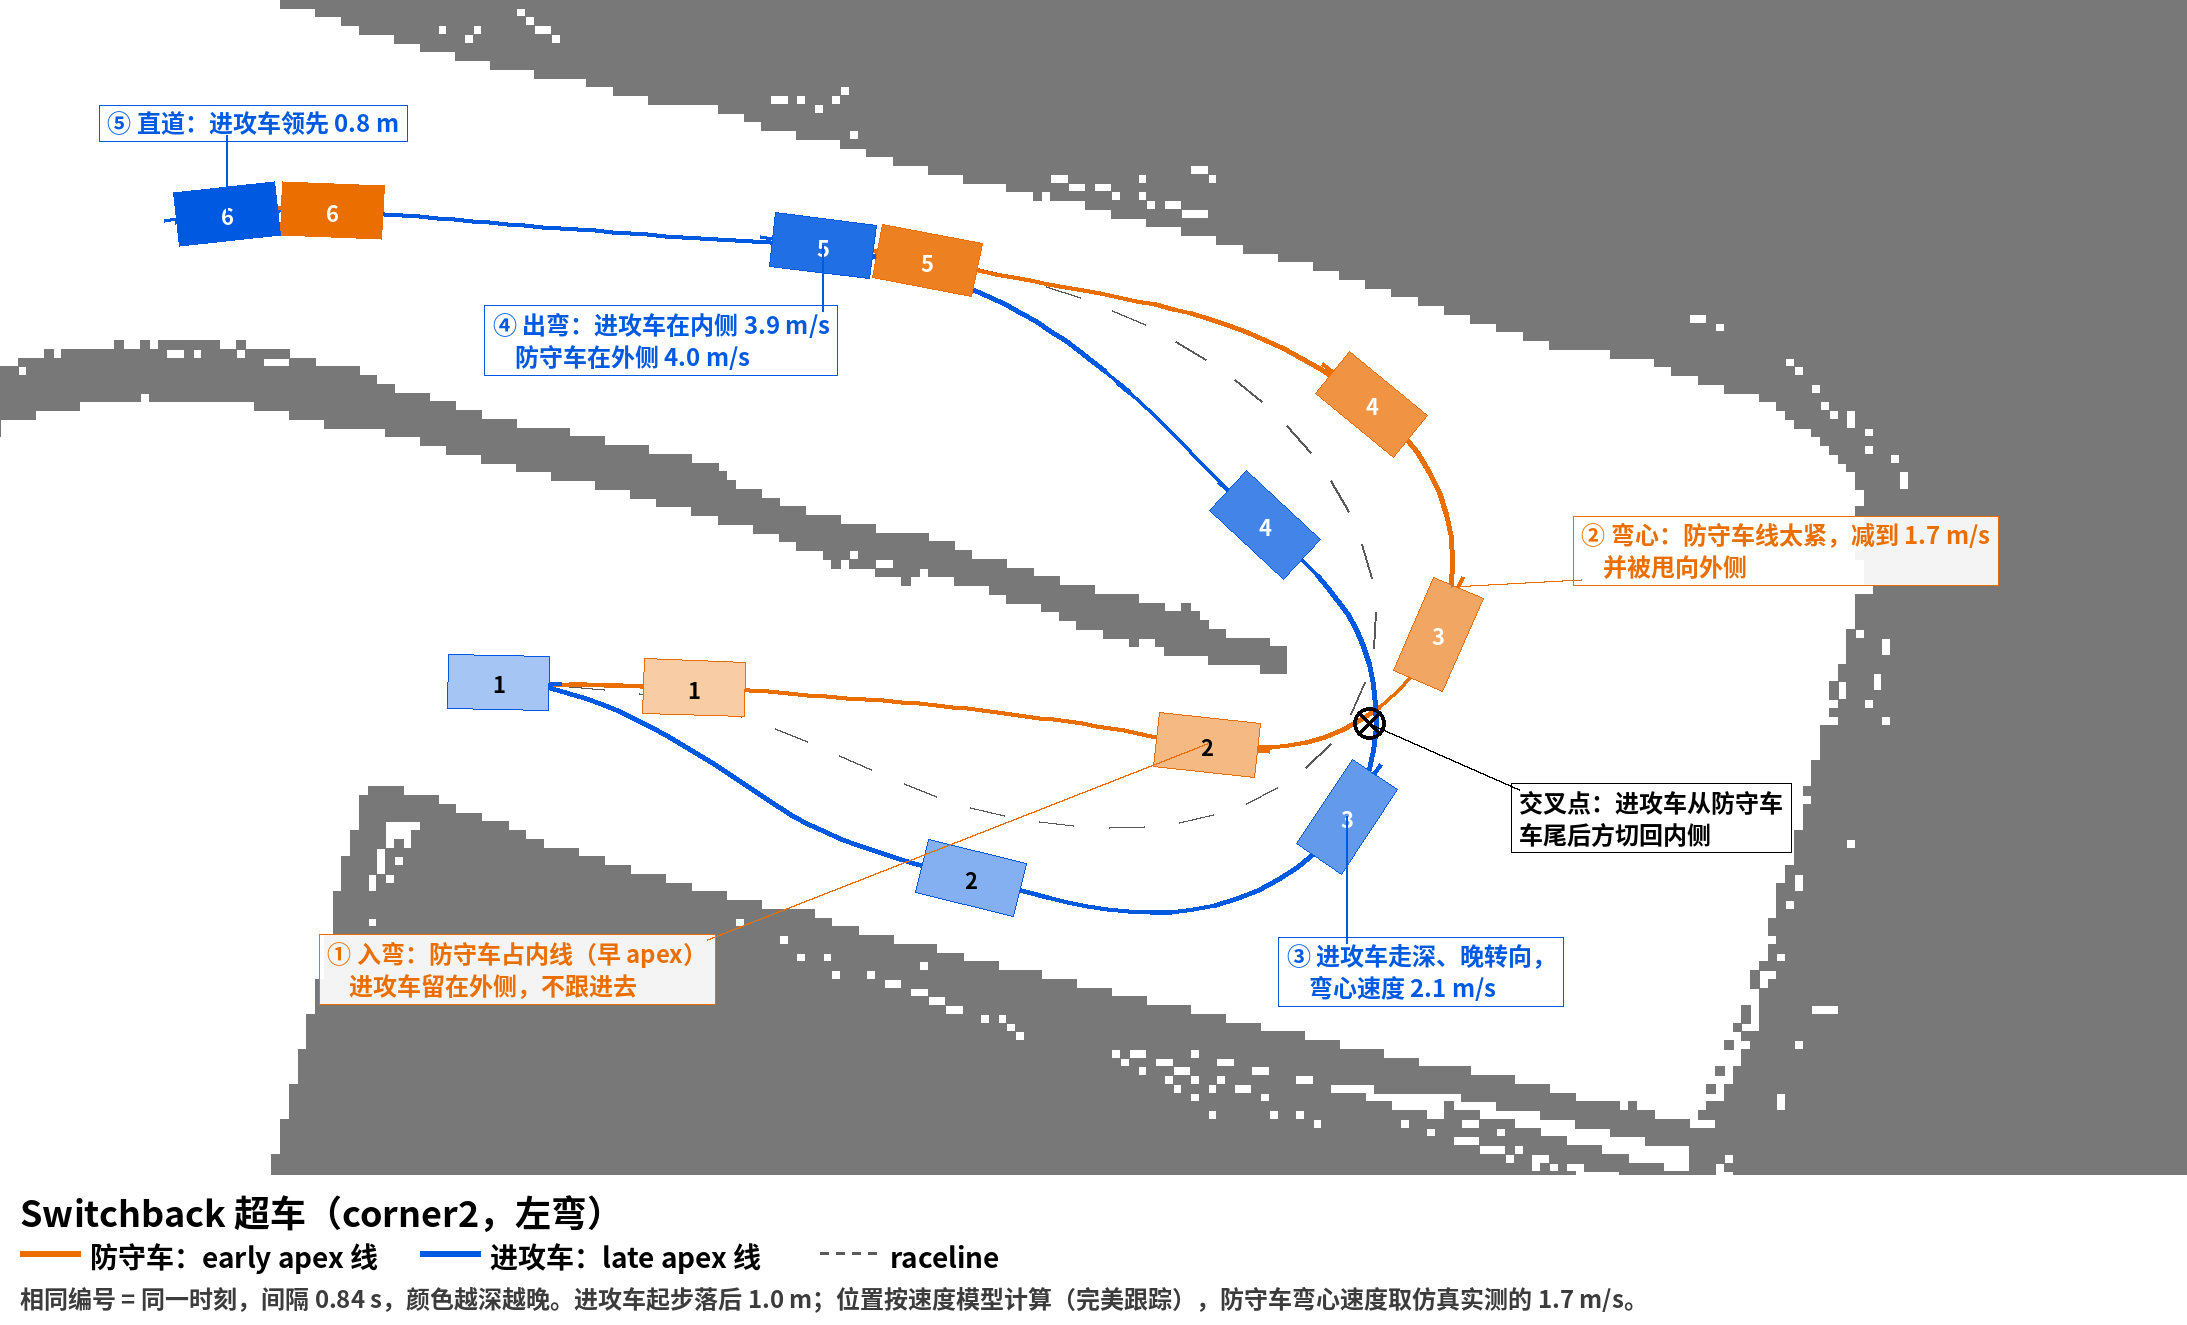
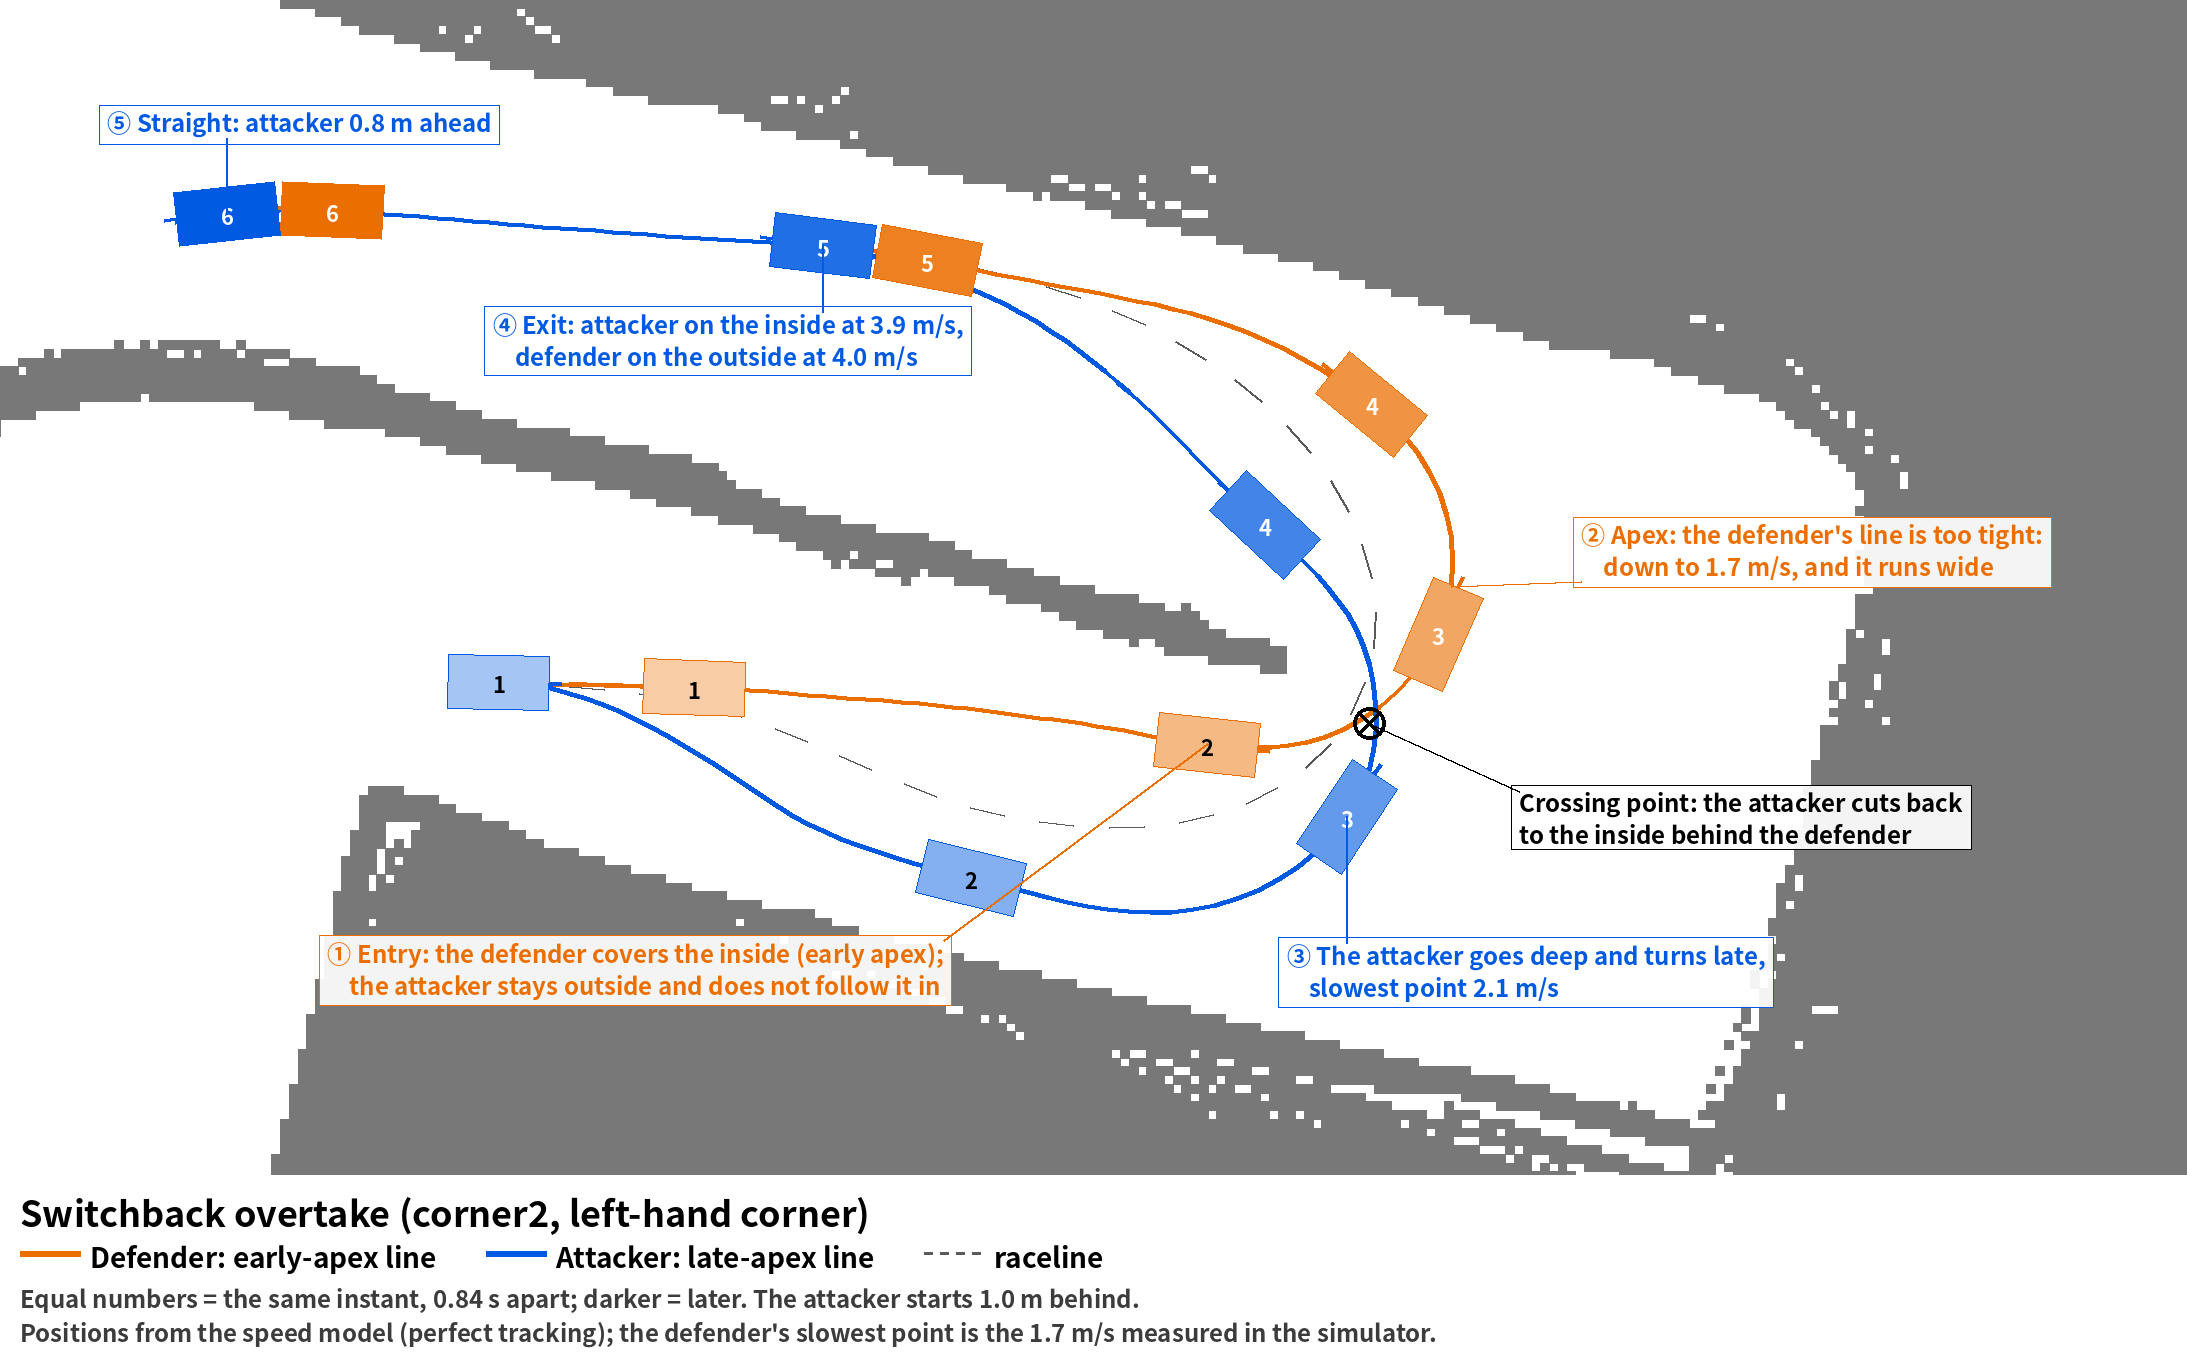
Switchback diagram: English labels

diff --git a/scripts/draw_switchback.py b/scripts/draw_switchback.py
@@ -25,12 +25,13 @@ from make_track_bounds import load_map  # noqa: E402
 
 ORANGE, BLUE = (235, 110, 0), (0, 90, 225)
 CAR_L, CAR_W = 0.58, 0.31
-CJK = '/usr/share/fonts/opentype/noto/NotoSansCJK-Bold.ttc'
+CJK = '/usr/share/fonts/opentype/noto/NotoSansCJK-Bold.ttc'   # has the circled digits of the labels
+FOOT = 185   # [px] legend and assumptions below the picture
 
 
 def font(size):
     try:
-        return ImageFont.truetype(CJK, size, index=2)   # Simplified Chinese face of the collection
+        return ImageFont.truetype(CJK, size, index=2)
     except OSError:
         return ImageFont.load_default()
 
@@ -75,7 +76,7 @@ def main():
     y0, y1 = pts[:, 1].min() - 1.5, pts[:, 1].max() + 1.2
     k = 175
     W, H = int((x1 - x0) * k), int((y1 - y0) * k)
-    img = Image.new('RGB', (W, H + 150), (255, 255, 255))
+    img = Image.new('RGB', (W, H + FOOT), (255, 255, 255))
     dr = ImageDraw.Draw(img, 'RGBA')
     P = lambda x, y: ((x - x0) * k, (y1 - y) * k)
     rr, cc = np.nonzero(~free)
@@ -83,7 +84,7 @@ def main():
         x, y = org[0] + c * res, org[1] + r * res
         if x0 - 0.1 < x < x1 and y0 - 0.1 < y < y1:
             dr.rectangle([P(x, y + res), P(x + res, y)], fill=(120, 120, 120))
-    dr.rectangle([0, H, W, H + 150], fill=(255, 255, 255))
+    dr.rectangle([0, H, W, H + FOOT], fill=(255, 255, 255))
 
     # raceline dashed, the two lines solid
     for j in range(0, len(seg) - 2, 4):
@@ -132,29 +133,37 @@ def main():
         dr.ellipse([px - 16, py - 16, px + 16, py + 16], outline=(0, 0, 0, 255), width=4)
         dr.line([px - 11, py - 11, px + 11, py + 11], fill=(0, 0, 0, 255), width=3)
         dr.line([px - 11, py + 11, px + 11, py - 11], fill=(0, 0, 0, 255), width=3)
-        label('交叉点：进攻车从防守车\n车尾后方切回内侧', (cx, cy), (150, 60))
+        label('Crossing point: the attacker cuts back\nto the inside behind the defender', (cx, cy), (150, 60))
     v = lambda w, i: f'{w[i, 3]:.1f} m/s'
-    label(f'① 入弯：防守车占内线（早 apex）\n    进攻车留在外侧，不跟进去', de[idf[1], :2], (-880, 190), ORANGE)
-    label(f'② 弯心：防守车线太紧，减到 {de[seg, 3].min():.1f} m/s\n    并被甩向外侧', de[int(seg[np.argmin(de[seg, 3])]), :2], (130, -70), ORANGE)
-    label(f'③ 进攻车走深、晚转向，\n    弯心速度 {att[seg, 3].min():.1f} m/s', att[ia[2], :2], (-60, 120), BLUE)
-    label(f'④ 出弯：进攻车在内侧 {v(att, ia[-2])}\n    防守车在外侧 {v(de, idf[-2])}', att[ia[-2], :2], (-330, 60), BLUE)
+    label('① Entry: the defender covers the inside (early apex);\n    the attacker stays outside and does not follow it in',
+          de[idf[1], :2], (-880, 190), ORANGE)
+    label(f'② Apex: the defender\'s line is too tight:\n    down to {de[seg, 3].min():.1f} m/s, and it runs wide',
+          de[int(seg[np.argmin(de[seg, 3])]), :2], (130, -70), ORANGE)
+    label(f'③ The attacker goes deep and turns late,\n    slowest point {att[seg, 3].min():.1f} m/s', att[ia[2], :2], (-60, 120), BLUE)
+    label(f'④ Exit: attacker on the inside at {v(att, ia[-2])},\n    defender on the outside at {v(de, idf[-2])}', att[ia[-2], :2], (-330, 60), BLUE)
     lead = (td[-1] - ta[-1]) * att[seg[-1], 3]
-    label(f'⑤ 直道：进攻车领先 {lead:.1f} m' if lead > 0 else f'⑤ 直道：进攻车仍落后 {-lead:.1f} m',
+    label(f'⑤ Straight: attacker {lead:.1f} m ahead' if lead > 0 else f'⑤ Straight: attacker still {-lead:.1f} m behind',
           att[ia[-1], :2], (-120, -110), BLUE)
 
     # legend and the assumptions, below the picture
-    dr.text((20, H + 10), 'Switchback 超车（%s，左弯）' % args.corner, fill=(0, 0, 0), font=f_big)
-    dr.line([20, H + 78, 80, H + 78], fill=ORANGE + (255,), width=6)
-    dr.text((90, H + 60), '防守车：early apex 线', fill=(0, 0, 0), font=f_mid)
-    dr.line([420, H + 78, 480, H + 78], fill=BLUE + (255,), width=6)
-    dr.text((490, H + 60), '进攻车：late apex 线', fill=(0, 0, 0), font=f_mid)
-    for j in range(0, 60, 16):
-        dr.line([820 + j, H + 78, 828 + j, H + 78], fill=(90, 90, 90, 255), width=3)
-    dr.text((890, H + 60), 'raceline', fill=(0, 0, 0), font=f_mid)
-    same = '同一辆车' if abs(args.defender_a_lat - lim['a_lat']) < 1e-6 else \
-        f'防守车弯心速度取仿真实测的 {de[seg, 3].min():.1f} m/s'
-    dr.text((20, H + 105), f'相同编号 = 同一时刻，间隔 {times[1] - times[0]:.2f} s，颜色越深越晚。进攻车起步落后 {args.gap:.1f} m；'
-                           f'位置按速度模型计算（完美跟踪），{same}。', fill=(60, 60, 60), font=f_small)
+    dr.text((20, H + 10), 'Switchback overtake (%s, %s-hand corner)'
+            % (args.corner, 'left' if co['inside'] > 0 else 'right'), fill=(0, 0, 0), font=f_big)
+    x = 20
+    for text, col in (('Defender: early-apex line', ORANGE), ('Attacker: late-apex line', BLUE), ('raceline', None)):
+        if col is None:
+            for j in range(0, 60, 16):
+                dr.line([x + j, H + 78, x + j + 8, H + 78], fill=(90, 90, 90, 255), width=3)
+        else:
+            dr.line([x, H + 78, x + 60, H + 78], fill=col + (255,), width=6)
+        dr.text((x + 70, H + 60), text, fill=(0, 0, 0), font=f_mid)
+        x += 70 + int(dr.textlength(text, font=f_mid)) + 50
+    same = 'the defender is the same car' if abs(args.defender_a_lat - lim['a_lat']) < 1e-6 else \
+        f"the defender's slowest point is the {de[seg, 3].min():.1f} m/s measured in the simulator"
+    dr.multiline_text((20, H + 105),
+                      f'Equal numbers = the same instant, {times[1] - times[0]:.2f} s apart; darker = later. '
+                      f'The attacker starts {args.gap:.1f} m behind.\n'
+                      f'Positions from the speed model (perfect tracking); {same}.',
+                      fill=(60, 60, 60), font=f_small, spacing=6)
     img.save(args.out)
     print(f'wrote {args.out} ({img.size[0]} x {img.size[1]}); lead at the end {lead:+.2f} m; '
           f'defender slowest {de[seg, 3].min():.2f}, attacker slowest {att[seg, 3].min():.2f} m/s')
